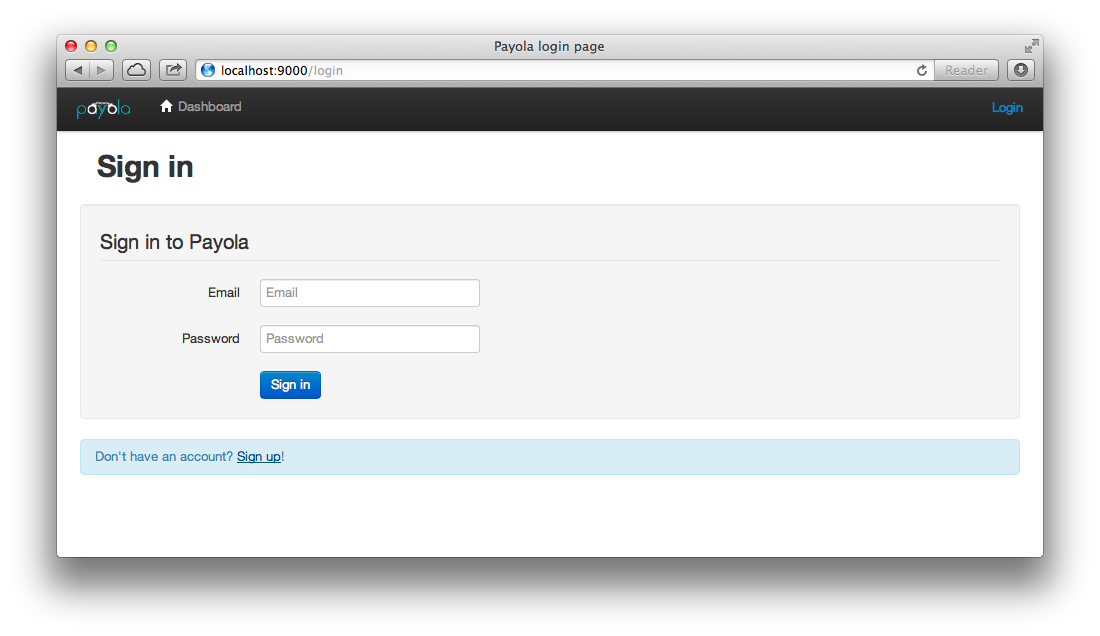
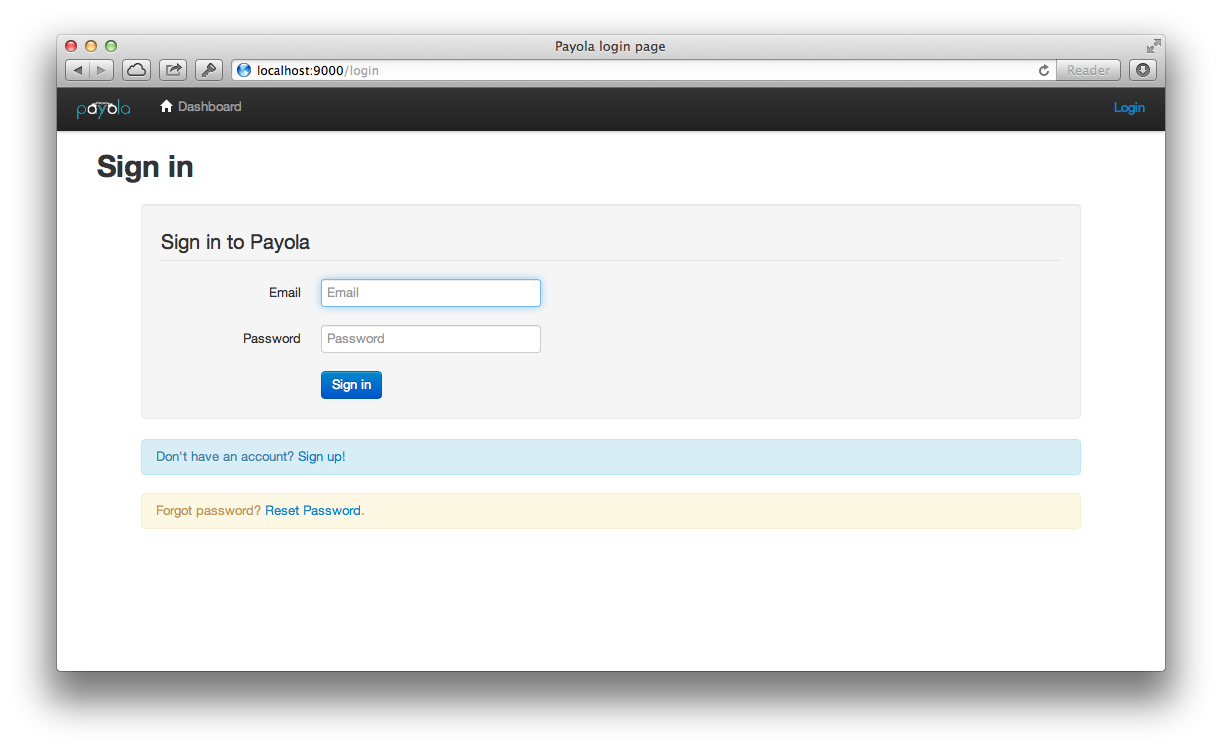
Adding docs for password reset

Changed region(s): [[0.0309, 0.0299, 0.9582, 0.956], [0.1855, 0.4481, 0.4327, 0.5377], [0.1545, 0.5079, 0.2164, 0.5377]]

diff --git a/user_manual.md b/user_manual.md
@@ -91,6 +91,10 @@ As a logged-in user, you can now create new data sources, analyses, plugins (you
 
 ![User Page](https://raw.github.com/siroky/Payola/develop/docs/img/screenshots/user_page.png)
 
+If you forget your password, you can click on the `Forgot Password` link on the login page. Enter your email and a new password - you will be emailed with a confirmation link. When you click on it, the new password will be put into effect. Note that the confirmation link is valid for two hours only.
+
+![Password Reset](https://raw.github.com/siroky/Payola/develop/docs/img/screenshots/forgot_password.png)
+
 ---
 
 ### Data Sources
